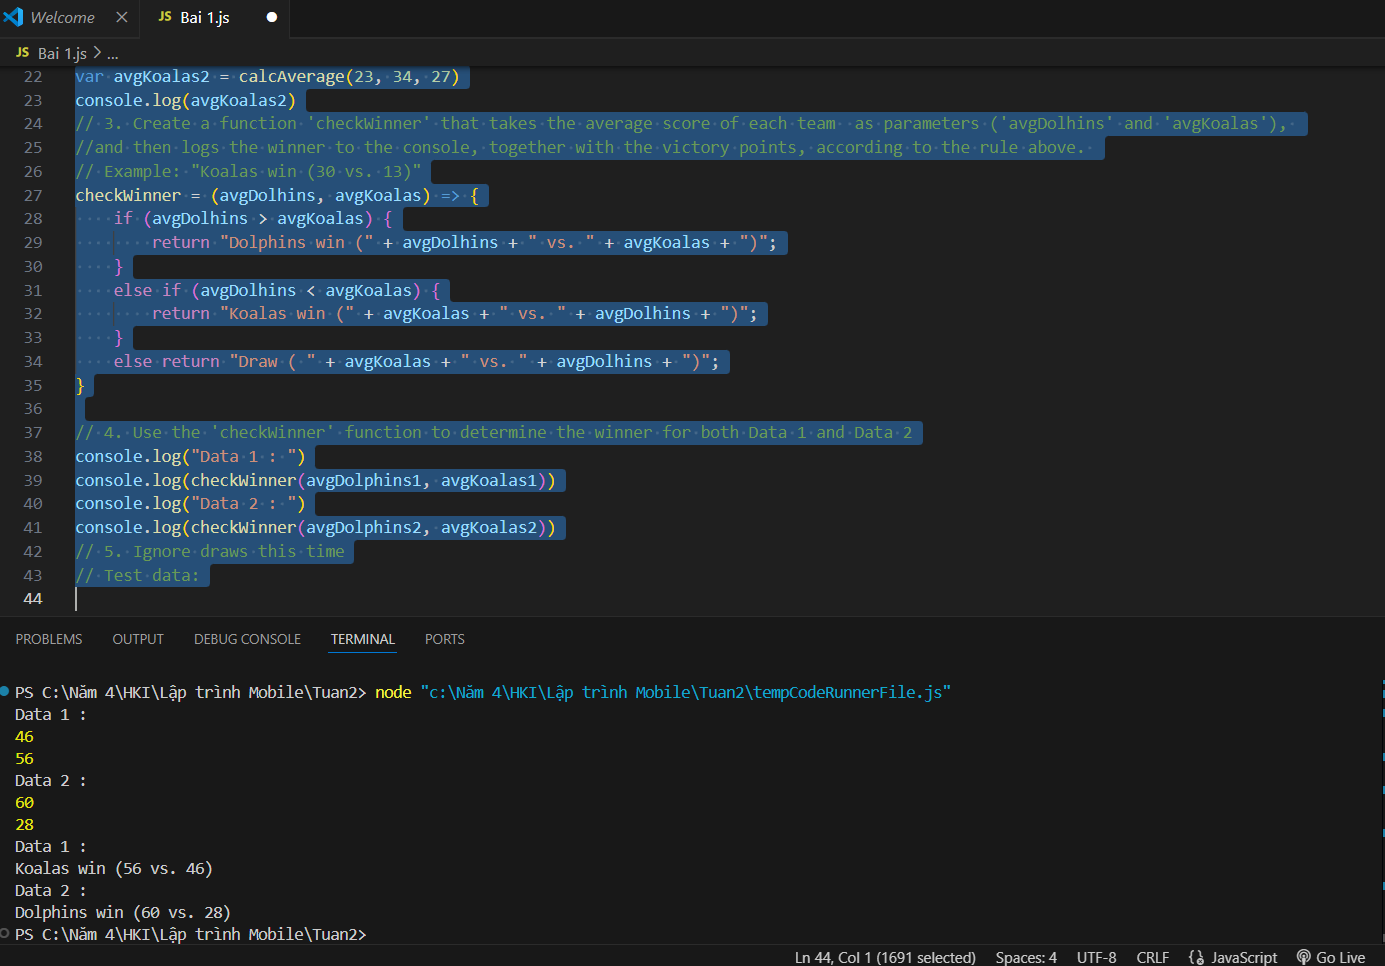
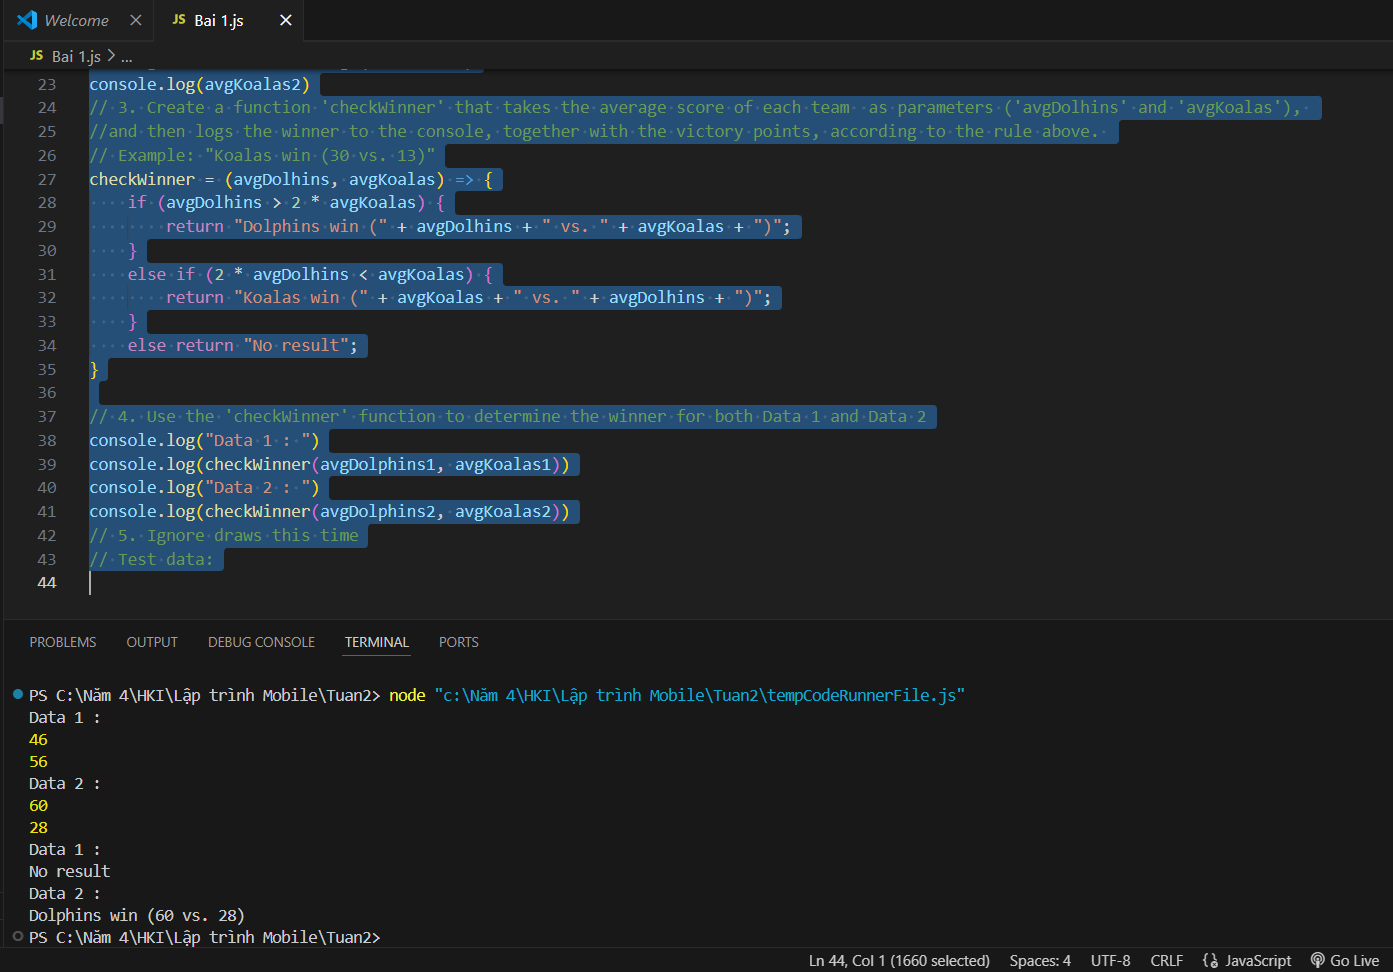
Commit bai 1 (fix)

diff --git a/Tuan2/Bai 1.js b/Tuan2/Bai 1.js
@@ -1,1 +1,43 @@
-console.log("Test 2")
+// 1. Create an arrow function 'calcAverage' to calculate the average of 3 scores
+calcAverage = (score1, score2, score3) => {
+    return (score1 + score2 + score3) / 3;
+}
+// Data 1: Dolphins score 44, 23 and 71. Koalas score 65, 54 and 49
+// Data 2: Dolphins score 85, 54 and 41. Koalas score 23, 34 and 27
+// 2. Use the function to calculate the average for both teams
+// Data 1
+console.log("Data 1 : ")
+// Team 1
+var avgDolphins1 = calcAverage(44, 23, 71)
+console.log(avgDolphins1)
+// Team 2
+var avgKoalas1 = calcAverage(65, 54, 49)
+console.log(avgKoalas1)
+// Data 2
+console.log("Data 2 : ")
+// Team 1
+var avgDolphins2 = calcAverage(85, 54, 41)
+console.log(avgDolphins2)
+// Team 2
+var avgKoalas2 = calcAverage(23, 34, 27)
+console.log(avgKoalas2)
+// 3. Create a function 'checkWinner' that takes the average score of each team  as parameters ('avgDolhins' and 'avgKoalas'), 
+//and then logs the winner to the console, together with the victory points, according to the rule above. 
+// Example: "Koalas win (30 vs. 13)"
+checkWinner = (avgDolhins, avgKoalas) => {
+    if (avgDolhins > 2 * avgKoalas) {
+        return "Dolphins win (" + avgDolhins + " vs. " + avgKoalas + ")";
+    }
+    else if (2 * avgDolhins < avgKoalas) {
+        return "Koalas win (" + avgKoalas + " vs. " + avgDolhins + ")";
+    }
+    else return "No result";
+}
+
+// 4. Use the 'checkWinner' function to determine the winner for both Data 1 and Data 2
+console.log("Data 1 : ")
+console.log(checkWinner(avgDolphins1, avgKoalas1))
+console.log("Data 2 : ")
+console.log(checkWinner(avgDolphins2, avgKoalas2))
+// 5. Ignore draws this time
+// Test data:

diff --git a/Tuan2/tempCodeRunnerFile.js b/Tuan2/tempCodeRunnerFile.js
@@ -25,13 +25,13 @@ console.log(avgKoalas2)
 //and then logs the winner to the console, together with the victory points, according to the rule above. 
 // Example: "Koalas win (30 vs. 13)"
 checkWinner = (avgDolhins, avgKoalas) => {
-    if (avgDolhins > avgKoalas) {
+    if (avgDolhins > 2 * avgKoalas) {
         return "Dolphins win (" + avgDolhins + " vs. " + avgKoalas + ")";
     }
-    else if (avgDolhins < avgKoalas) {
+    else if (2 * avgDolhins < avgKoalas) {
         return "Koalas win (" + avgKoalas + " vs. " + avgDolhins + ")";
     }
-    else return "Draw ( " + avgKoalas + " vs. " + avgDolhins + ")";
+    else return "No result";
 }
 
 // 4. Use the 'checkWinner' function to determine the winner for both Data 1 and Data 2
